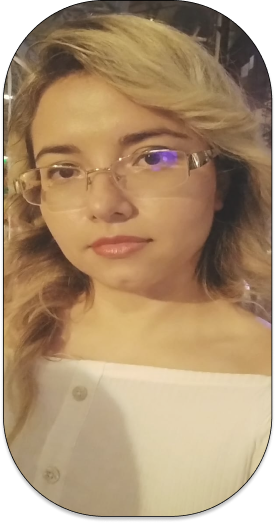
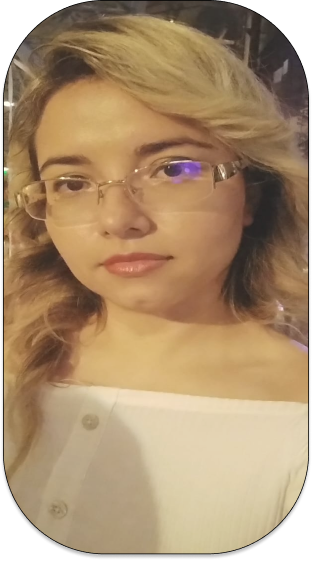
update

diff --git a/index.html b/index.html
@@ -20,20 +20,20 @@
                     <h1 class="apresentacao__conteudo__titulo">Dê asas ao seu negócio na internet <strong class="titulo-destaque">com uma desenvolvedora que vai levar seu site ao ar.</strong></h1>
                     <p class="apresentacao__conteudo__texto">Olá! Sou Josy do Vale, desenvolvedora Front-end com especialidade em <strong>HTML e CSS</strong>. Ajudo a transformar o seu negócio físico em algo moderno e a ser comercializado online. Vamos conversar?</p>
                         <div class="apresentacao__links">
-                            <h2 class="apresentacao__links__subtitulo">Acesse minhas redes</h2>
-                        <a class="apresentacao__links__link" href="//instagram.com/">
+                            <h2 class="apresentacao__links__subtitulo"><strong>Acesse minhas redes</strong></h2>
+                        <a class="apresentacao__links__botao" href="//instagram.com/">
                             <img src="./assets/instagram.png">
                             Instagram</a>
-                        <a class="apresentacao__links__link" href="https://github.com">
+                        <a class="apresentacao__links__botao" href="https://github.com">
                         <img src="./assets/github.png">
                             GitHub</a>
-                            <a class="apresentacao__links__link" href="https://api.whatsapp.com/send?phone=5591985276289">
+                            <a class="apresentacao__links__botao" href="https://api.whatsapp.com/send?phone=5591985276289">
                                 <img src="./assets/whatsapp.png">
                                     Whatsapp</a>
                     </div>
                 </section>
                     <section class="imagemJosy">
-                    <img src="assets/ImagemSobreMim 2-1.png" alt="Foto da Josy do Vale"> 
+                    <img class="apresentacao__imagem" src="assets/ImagemSobreMim 2@3x.png" alt="Foto da Josy do Vale"> 
                 </section>
             </main>
             <footer class="rodape">

diff --git a/styles/style.css b/styles/style.css
@@ -47,7 +47,7 @@ body{
 }
 
 .apresentacao__conteudo {
-    width: 615px;
+    width: 60%;
     display: flex;
     flex-direction: column;
     gap: 40px;
@@ -69,11 +69,6 @@ body{
     font-weight: 400;
 }
 
-.imagem__Hejociara{
-    width: 359px;
-    height: 689px;
-}
-
 .apresentacao__links {
     display: flex;
     flex-direction: column;
@@ -86,12 +81,12 @@ body{
     font-weight: 400;
     font-size: 1.5rem;
 }
-.apresentacao__links__link{
+.apresentacao__links__botao{
     display: flex;
     justify-content: center;
     gap: 16px;
     border: 2px solid var(--cor-secundaria);
-    width: 378px;
+    width: 60%;
     text-align: center;
     border-radius: 8px;
     font-size: 1.5rem;
@@ -105,6 +100,11 @@ body{
     background-color: var(--cor--hover);
     width: 400px;
     font-size: 1.68rem;
+}
+
+.apresentacao__imagem{
+    padding: 24px;
+    width: 60%;
 }
 
 .rodape{

diff --git a/about.html b/about.html
@@ -25,7 +25,7 @@
             </p>
             <p class="apresentacao__conteudo__texto">Explore meu portfólio e entre em contato para discutirmos sua visão. Estou animada para embarcar nessa jornada de criação com você e construir um web-site excepcional que impulsione o seu negócio para o próximo nível. Vamos começar a transformar suas ideias em pixels magníficos!</p>
         </section>
-        <img src="assets/ImagemSobreMim 2-1.png" alt="Foto da Josy do Vale"> 
+        <img class= "apresentacao__imagem" src="assets/ImagemSobreMim 2-1.png" alt="Foto da Josy do Vale"> 
     </main>
     <footer class="rodape">
         <p>Desenvolvido por Hejociara do Vale</p>
